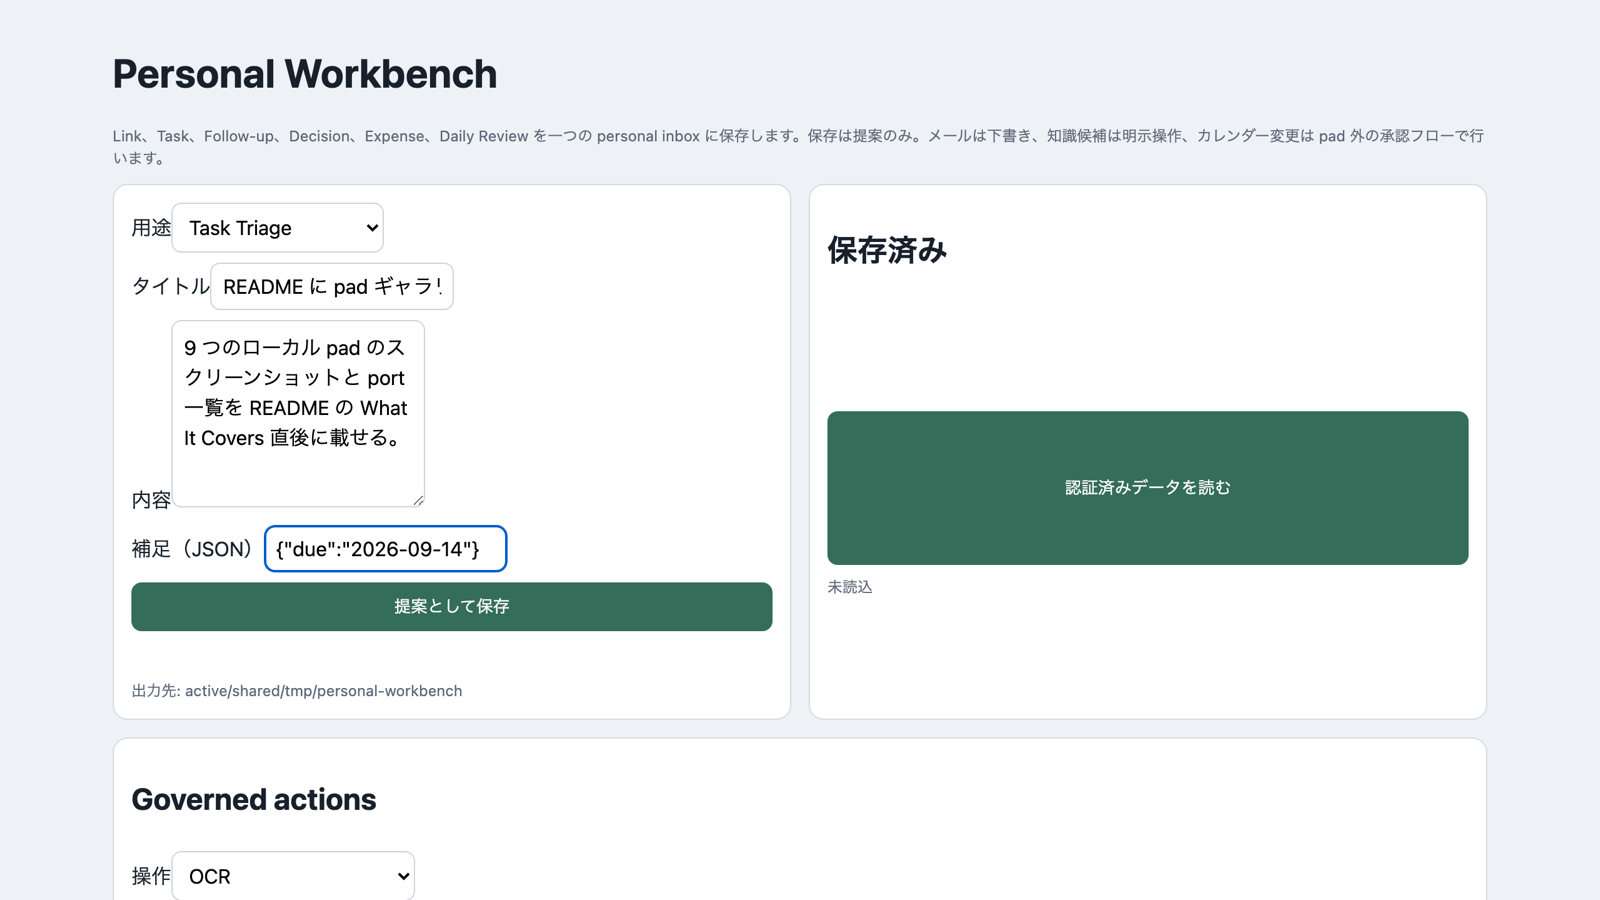
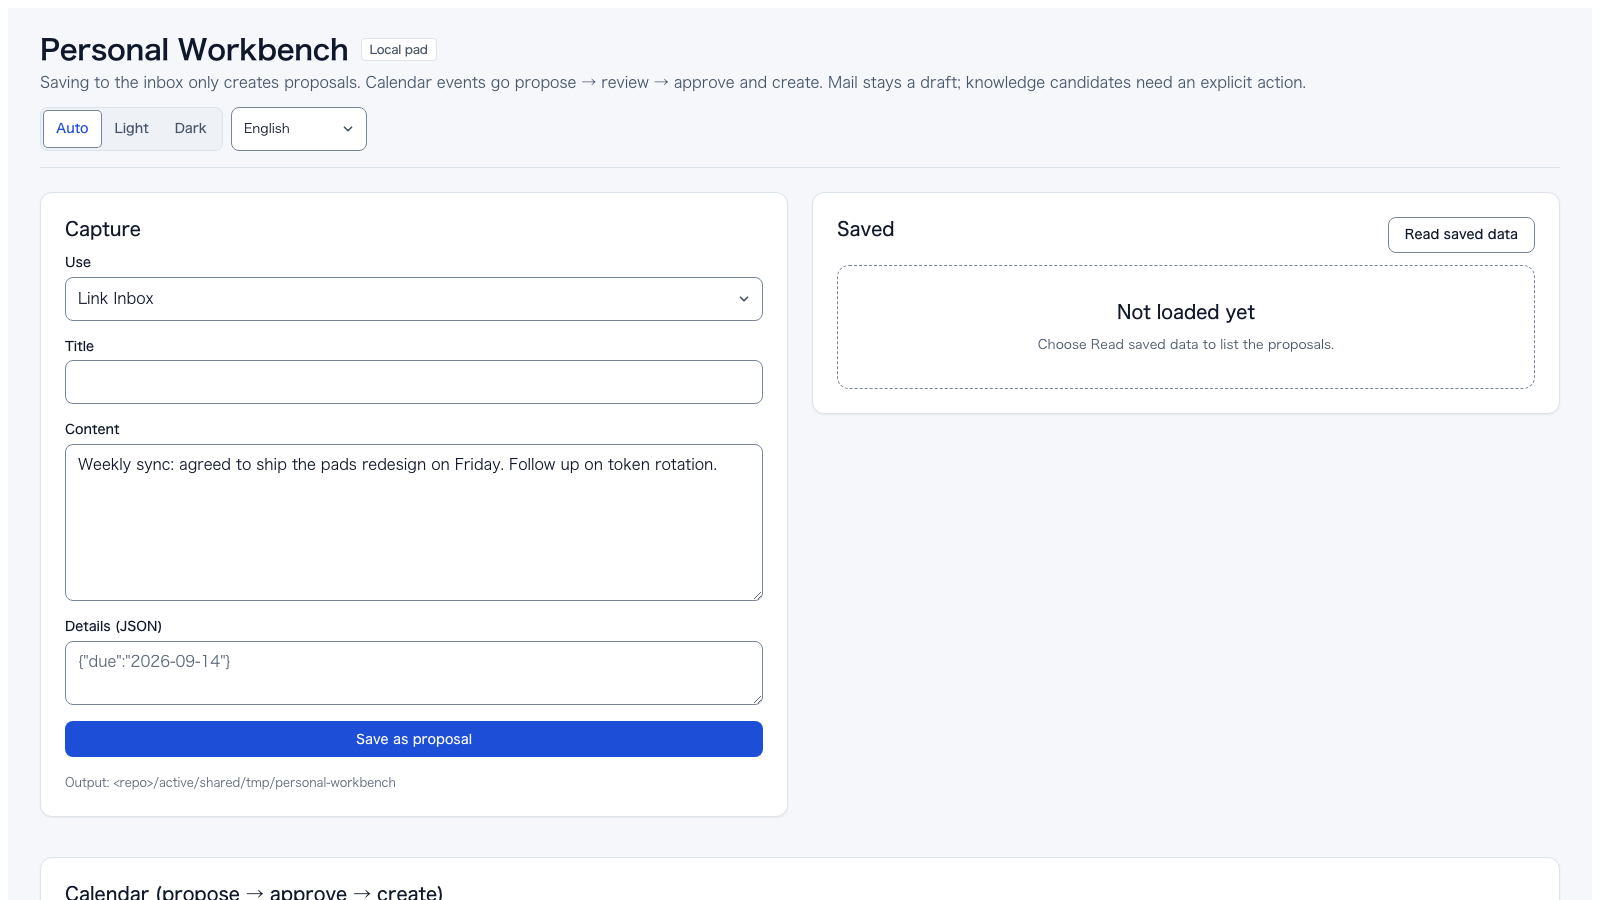
docs(pads): refresh pad screenshots and document the pad UI kit
PA-08: README pad gallery re-shot on the shared kit, SURFACES and
DESIGN_SYSTEM describe the new components, the render model and
scripts/lib/pad-ui.ts; plan status updated.

diff --git a/docs/developer/design/DESIGN_SYSTEM.md b/docs/developer/design/DESIGN_SYSTEM.md
@@ -47,11 +47,13 @@ The generated Kyberion token blocks, the UI stylesheets and theme entries are ch
 
 ### Component stylesheet (`kyberion-ui.css`) and the `kyberion-base` catalog
 
-- **Source**: `knowledge/public/design-patterns/web/kyberion-ui.source.css` (base; authored, `--kb-ui-*` variables only, no literal colors, no glass/blur/gradients) plus one file per extension part — `kyberion-ui.charts.source.css` (bar/line/donut/sparkline/heatmap/meter/sequence/flow/stat-list) and `kyberion-ui.forms.source.css` (settings/inputs/file-drop/camera-capture/secret-field/save-bar). `scripts/generate_design_tokens.ts` concatenates the base file first, then every `kyberion-ui.<part>.source.css`, into the generated `kyberion-ui.css` next to each surface's token file. The generator prepends a GENERATED header and replaces `/* @kb-generated status-tones */` with the status-pill tone rules derived from `KB_STATUS_TONES` in `libs/core/a2ui-catalog.ts`. Edit the source files, never the generated copies.
+- **Source**: `knowledge/public/design-patterns/web/kyberion-ui.source.css` (base; authored, `--kb-ui-*` variables only, no literal colors, no glass/blur/gradients) plus one file per extension part — `kyberion-ui.charts.source.css` (bar/line/donut/sparkline/heatmap/meter/sequence/flow/stat-list) `kyberion-ui.forms.source.css` (settings/inputs/file-drop/camera-capture/secret-field/save-bar), `kyberion-ui.pads.source.css` (toolbar/dialog/drawing-palette/sketch-board) and `kyberion-ui.voice.source.css` (voice-input/voice-state). `scripts/generate_design_tokens.ts` concatenates the base file first, then every `kyberion-ui.<part>.source.css`, into the generated `kyberion-ui.css` next to each surface's token file. The generator prepends a GENERATED header and replaces `/* @kb-generated status-tones */` with the status-pill tone rules derived from `KB_STATUS_TONES` in `libs/core/a2ui-catalog.ts`. Edit the source files, never the generated copies.
 - **Class contract**: one root class per A2UI `ui:*` type — `.kb-app-shell`, `.kb-page-header`, `.kb-nav-rail`, `.kb-tabs`, `.kb-stack`, `.kb-grid`, `.kb-section`, `.kb-next-action`, `.kb-metric`, `.kb-kv`, `.kb-table` (inside `.kb-table-wrap`), `.kb-list`, `.kb-text--{body,muted,caption,mono,title}`, `.kb-status-pill[data-status]`, `.kb-badge[data-tone|data-role]`, `.kb-callout[data-tone]`, `.kb-empty-state`, `.kb-skeleton[data-shape]`, `.kb-btn--{primary,secondary,danger,ghost}`, `.kb-disclosure` (plus the chart and form part classes) — with BEM `__element` children and state in data attributes. Focus rings use `:focus-visible` + `--kb-ui-focus-ring`; animations stop under `prefers-reduced-motion`.
 - **Catalog**: `knowledge/product/schemas/a2ui-catalog-kyberion-base.schema.json` (props schema per `ui:*` type) + `libs/core/a2ui-catalog.ts` (`A2UI_BASE_CATALOG_ID`, prop types, `validateA2UIComponentProps`, aliases `text→ui:text`, `button→ui:button`, `card→ui:section`, `container→ui:stack`). `validateA2UIMessage` enforces the props schema for `ui:*` types only; aliases, `display:*`, `kb-*` and `presence.*` keep the structural check. `ui:status-pill` statuses are exactly the `renderStatus()` vocabulary (`listUxStatusValues()` in `ux-vocabulary.ts`).
 - **Renderers**: two implementations of the same catalog, kept at prop parity by a shared fixture test. React — `@agent/shared-ui` (`libs/shared-ui/src`, `A2UIRenderer` + one component per `ui:*` type, `src/charts`, `src/forms`) — consumed by the three Next.js surfaces (concierge, chronos-mirror-v2, operator-surface). Vanilla — `libs/shared-ui/vanilla` (dependency-free ES module, `renderA2UI(container, components, options)`) — consumed by the two static-HTML surfaces (presence-studio, computer-surface).
 - **i18n**: renderer default copy (status labels, empty states, skeleton reads, chart captions) is never hardcoded; both renderers take a `locale` + vocabulary bundle sourced from the `ui` domain in `knowledge/product/orchestration/user-facing-vocabulary.json` (`en`, `ja`, and `qps-ploc` per `required_locales`). Props text (titles, body, data labels) is translated by the caller before it reaches the renderer.
+- **Interactive components (PA-01/PA-02)**: `ui:toolbar` (WAI-ARIA toolbar: buttons, toggles, file pickers, status; `description` tooltips; `sticky` inside a `.kb-sticky-host`), `ui:dialog` (replaces `confirm()` / `prompt()`: input, choices, child content, focus trap that also works inside a shadow root), `ui:drawing-palette`, `ui:sketch-board` (palette + canvas; hands the host a `controller` through `drawing.ready`), `ui:voice-input` (dictation or recording, live input-level meter, push-to-talk, self-contained `chunk_ms` chunks) and `ui:voice-state` (idle / listening / thinking / speaking / muted / error, optional level). Files, audio and images travel only in `onAction` payloads.
+- **Render model**: vanilla `renderA2UI` replaces the whole container on every call. Give each stateful component (`ui:sketch-board`, `ui:voice-input`, `ui:camera-capture`) its own container and do not re-render it while in use; for controlled fields, keep `field.change` values in the page model instead of re-rendering on each keystroke.
 - **Gallery**: every `ui:*` component, in light/dark × comfortable/compact × `en`/`ja`, served at presence-studio's `/ui-gallery` (`presence/displays/presence-studio/ui-gallery-routes.ts` + `static/ui-gallery.js`, fixtures in `static/ui-gallery.fixtures*.json`). It is the visual reference for new components and the target of the before/after capture script below.
 - **Screenshot capture**: `scripts/capture_surface_screenshots.ts` (`node --import ./scripts/ts-loader.mjs scripts/capture_surface_screenshots.ts --out <dir> [--locales ja,en] [--themes light,dark] [--surfaces …] [--base-url-map '{"concierge":"http://127.0.0.1:3050"}']`) captures the default page list across all 5 surfaces with the shared locale/theme preferences pre-set, for before/after design-change evidence; it assumes the surfaces are already running (see [`docs/SURFACES.md`](../../SURFACES.md)).
 
@@ -66,6 +68,8 @@ We expose CSS variables with the prefix `--kb-*`.
 - Semantic UI states use `--kb-surface`, `--kb-muted-text`, `--kb-border`, `--kb-success`, and `--kb-danger`; do not infer state colors from brand accents in individual components.
 
 ### Static HTML Surfaces
+
+- The local pads (`scripts/*`, `node:http`) use `scripts/lib/pad-ui.ts`: `handlePadUiAsset` serves the vanilla kit, the `ui` message bundle and the generated `scripts/lib/pad-ui/{design-tokens,kyberion-ui}.css`; `resolvePadLocale` picks the locale per request (`?lang` → `kb-ui-locale` cookie → `Accept-Language`); `renderPadPage` / `renderPadHeader` produce the shell with a theme pre-paint (`kyberion.ui.theme` / `kb-ui-theme` cookie) and the shared display controls. Stamped report-review files inline the kit so they work offline.
 
 - Import `design-tokens.css` into the `<head>` of your static file.
 - The `body` or `:root` elements should reference `var(--kb-*)` directly instead of hardcoding any HEX or RGBA values.

diff --git a/docs/SURFACES.md b/docs/SURFACES.md
@@ -66,7 +66,7 @@ FD-08 で廃止した旧 Companion Hub(Home / Learn / Discover / Work / Connect 
 
 ## ローカル pad(127.0.0.1 限定・取り込み専用)
 
-手元にあるもの(図・会議メモ・スクリーンショット・ファイル・クリップボード・今日の TODO)を一つの localhost capture desk から取り込み、tenant・tier ごとの管理領域へ保存して履歴を確認できる。`pnpm pads` が一つの listener とメニューを提供する。外部リソース読込ゼロ、ファイル I/O は `secure-io` 経由、mission の自動起動や送信は行わない。スクリーンショット付きの一覧は [README の Local Pads](../README.md#local-pads--capture-at-your-desk-hand-off-to-kyberion)、索引は [`scripts/personal-pads/README.md`](../scripts/personal-pads/README.md)。既存の個別ポートは移行期間の互換入口として残る。
+手元にあるもの(図・会議メモ・スクリーンショット・ファイル・クリップボード・今日の TODO)を一つの localhost capture desk から取り込み、tenant・tier ごとの管理領域へ保存して履歴を確認できる。`pnpm pads` が一つの listener とメニューを提供する。外部リソース読込ゼロ、ファイル I/O は `secure-io` 経由、mission の自動起動や送信は行わない。スクリーンショット付きの一覧は [README の Local Pads](../README.md#local-pads--capture-at-your-desk-hand-off-to-kyberion)、索引は [`scripts/personal-pads/README.md`](../scripts/personal-pads/README.md)。既存の個別ポートは移行期間の互換入口として残る。全 pad は共通 UI(A2UI `kyberion-base`: `ui:toolbar` / `ui:dialog` / `ui:sketch-board` / `ui:voice-input` など、light/dark、en/ja)で描画され、表示言語はリクエストごとに決まる(`?lang=` → `kb-ui-locale` cookie → `Accept-Language`)。
 
 | pad                                                    | port | 取り込むもの → 出力                                                                                      |
 | ------------------------------------------------------ | ---: | -------------------------------------------------------------------------------------------------------- |

diff --git a/docs/developer/improvement-plans-2026-09/PADS_A2UI_AND_AVATAR_PLAN_2026-09-23.ja.md b/docs/developer/improvement-plans-2026-09/PADS_A2UI_AND_AVATAR_PLAN_2026-09-23.ja.md
@@ -1,7 +1,7 @@
 ---
 title: ローカルパッドの A2UI 化と話すアバター計画
 tags: [design-system, a2ui, local-pads, voice, avatar, improvement-plan, 2026-09]
-last_updated: 2026-09-23
+last_updated: 2026-09-24
 status: active
 mission: MSN-PADS-A2UI-20260923
 ---
@@ -9,6 +9,18 @@ mission: MSN-PADS-A2UI-20260923
 # ローカルパッドの A2UI 化と話すアバター計画(PA-01〜PA-10)
 
 [サーフェス UI 統一計画](./SURFACE_UI_UNIFICATION_PLAN_2026-09-23.ja.md)(PR #778)の続き。対象は `scripts/*` 配下のローカルパッド 9 種 + `personal-pads` 統合シェル。
+
+## 実装状況(2026-09-24 時点)
+
+PR 1(PA-01〜PA-08)実装済み。PR 2(PA-09 / PA-10)は未着手。
+
+| ID            | 状態 | 備考                                                                                        |
+| ------------- | ---- | ------------------------------------------------------------------------------------------- |
+| PA-01 / PA-02 | done | 6 コンポーネント追加(React / vanilla パリティ、en/ja)                                       |
+| PA-03         | done | `scripts/lib/pad-ui.ts`(資産配信、リクエスト単位ロケール、ページシェル、テーマ cookie 共有) |
+| PA-04〜PA-07  | done | 10 pad を移行、`confirm()` / `prompt()` 全廃、i18n ベースライン 297 件削減                  |
+| PA-08         | done | before / after スクリーンショット(mission evidence)、README / SURFACES / DESIGN_SYSTEM 更新 |
+| PA-09 / PA-10 | todo | §6 の設計メモを参照                                                                         |
 
 ## 1. 背景(ヒアリング結果 2026-09-23)
 

diff --git a/README.md b/README.md
@@ -203,7 +203,7 @@ Every HTTP surface resolves the viewer principal server-side and treats a client
 
 ## Local Pads — capture at your desk, hand off to Kyberion
 
-The **Capture desk** is one **127.0.0.1-only** server for the eight capture pads below. Start it once with `pnpm pads`, choose a pad from the menu, and inspect its authenticated history. It captures something you already have on your desk (a sketch, meeting notes, a screenshot, a file, a clipboard, today's TODO), stores records in the server-derived tenant/tier partition, and never starts a mission or sends anything on its own. The legacy per-pad pages remain available during migration.
+The **Capture desk** is one **127.0.0.1-only** server for the eight capture pads below. Start it once with `pnpm pads`, choose a pad from the menu, and inspect its authenticated history. It captures something you already have on your desk (a sketch, meeting notes, a screenshot, a file, a clipboard, today's TODO), stores records in the server-derived tenant/tier partition, and never starts a mission or sends anything on its own. The legacy per-pad pages remain available during migration. Every pad renders with the shared UI kit (toolbar, dialog, sketch board with a drawing palette, voice input with a live level meter) in light/dark and English/Japanese.
 
 <table>
   <tr>
